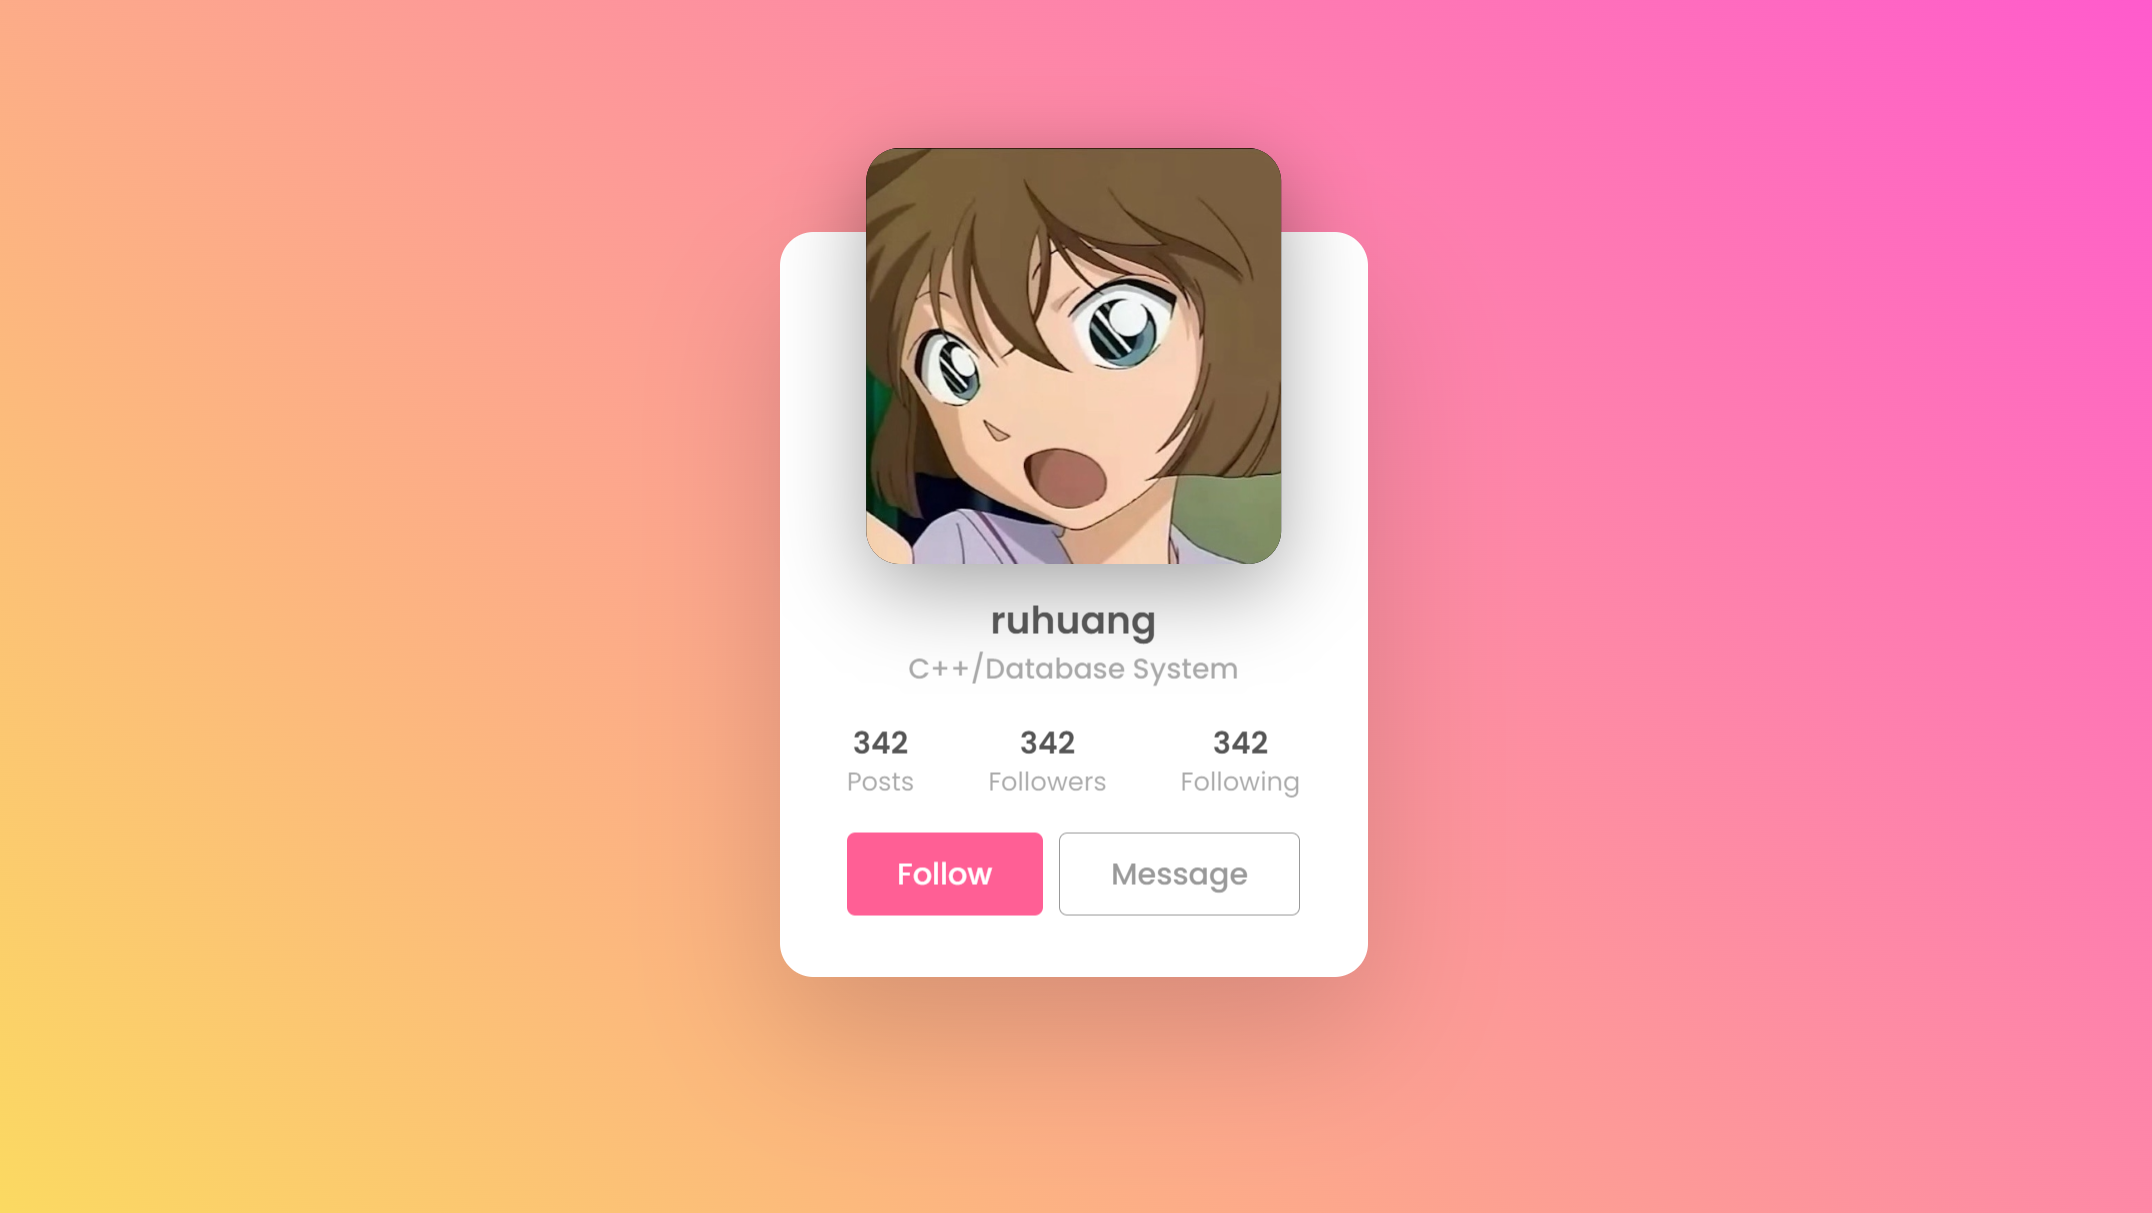
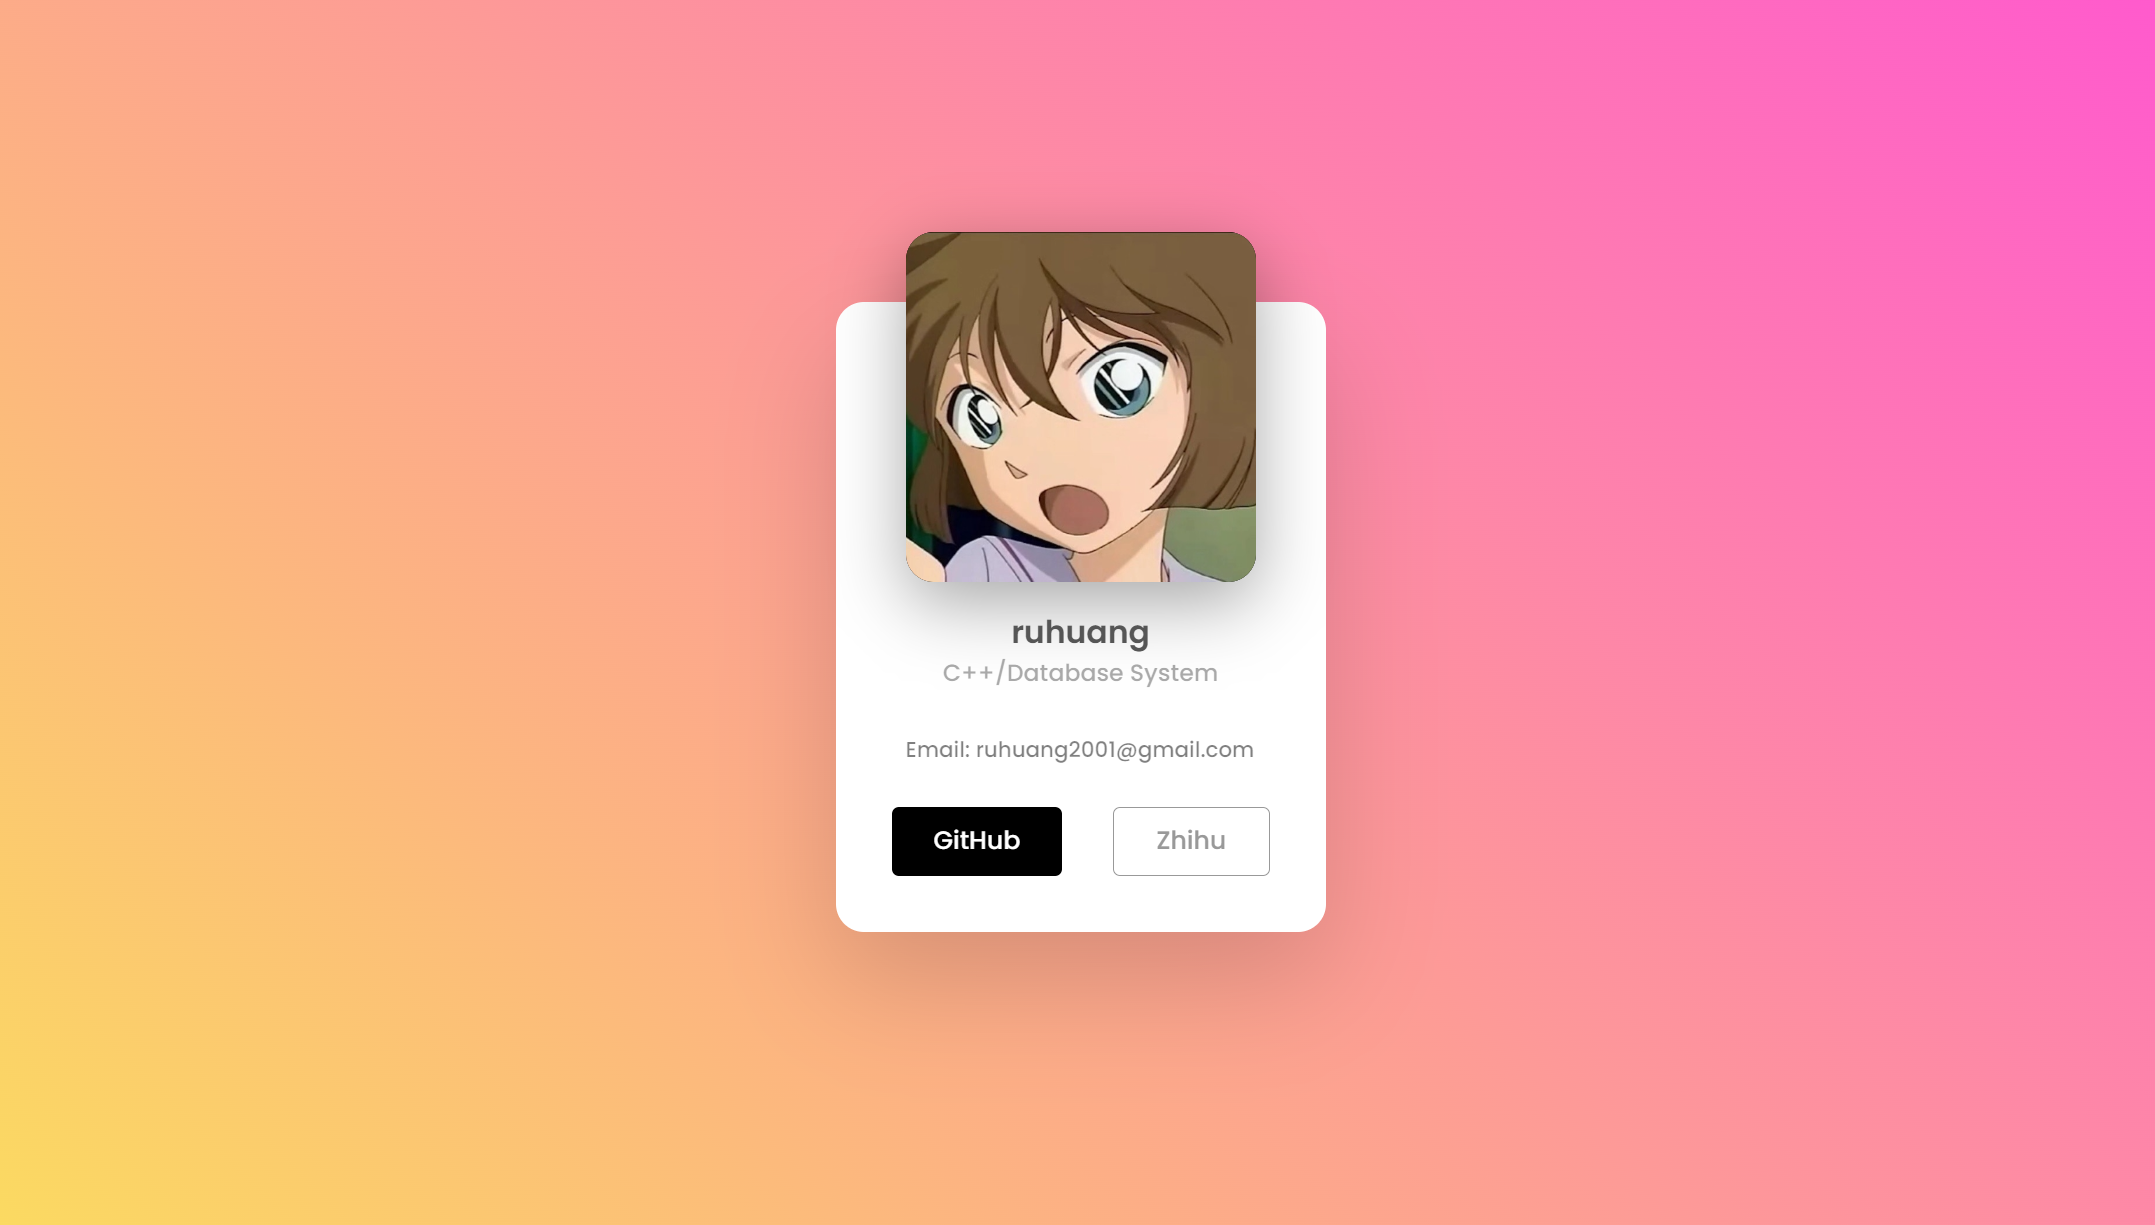
Delete some texts

Changed region(s): [[0.3425, 0.122, 0.6538, 0.8236]]

diff --git a/index.html b/index.html
@@ -14,13 +14,13 @@
             <div class="details">
                 <h2>ruhuang<br><span>C++/Database System</span></h2>
                 <div class="data">
-                    <h3>342<br><span>Posts</span></h3>
-                    <h3>342<br><span>Followers</span></h3>
-                    <h3>342<br><span>Following</span></h3>
+                    <span>Email: ruhuang2001@gmail.com</span>
+<!--                    <h3>342<br><span>Followers</span></h3>-->
+<!--                    <h3>342<br><span>Following</span></h3>-->
                 </div>
                 <div class="actionBtn">
-                    <button>Follow</button>
-                    <button>Message</button>
+                    <button>GitHub</button>
+                    <button>Zhihu</button>
                 </div>
             </div>
         </div>

diff --git a/css/style.css b/css/style.css
@@ -98,17 +98,18 @@ body
     justify-content: space-between;
     margin: 20px 0;
 }
-.card .content .details .data h3
-{
-    font-size: 1em;
-    color: #555;
-    line-height: 1.2em;
-    font-weight: 600;
-}
-.card .content .details .data h3 span
+/*.card .content .details .data h3*/
+/*{*/
+/*    font-size: 1em;*/
+/*    color: #555;*/
+/*    line-height: 1.2em;*/
+/*    font-weight: 600;*/
+/*}*/
+.card .content .details .data span
 {
     font-size: 0.85em;
-    font-weight: 400;
+    font-weight: 500;
+    margin: 10px 10px;
     opacity: 0.5;
 }
 .card .content .details .actionBtn
@@ -125,7 +126,8 @@ body
     outline: none;
     font-size: 1em;
     font-weight: 500;
-    background: #ff5f95;
+    /*background: #ff5f95;*/
+    background: black;
     color: #fff;
     cursor: pointer;
 }
